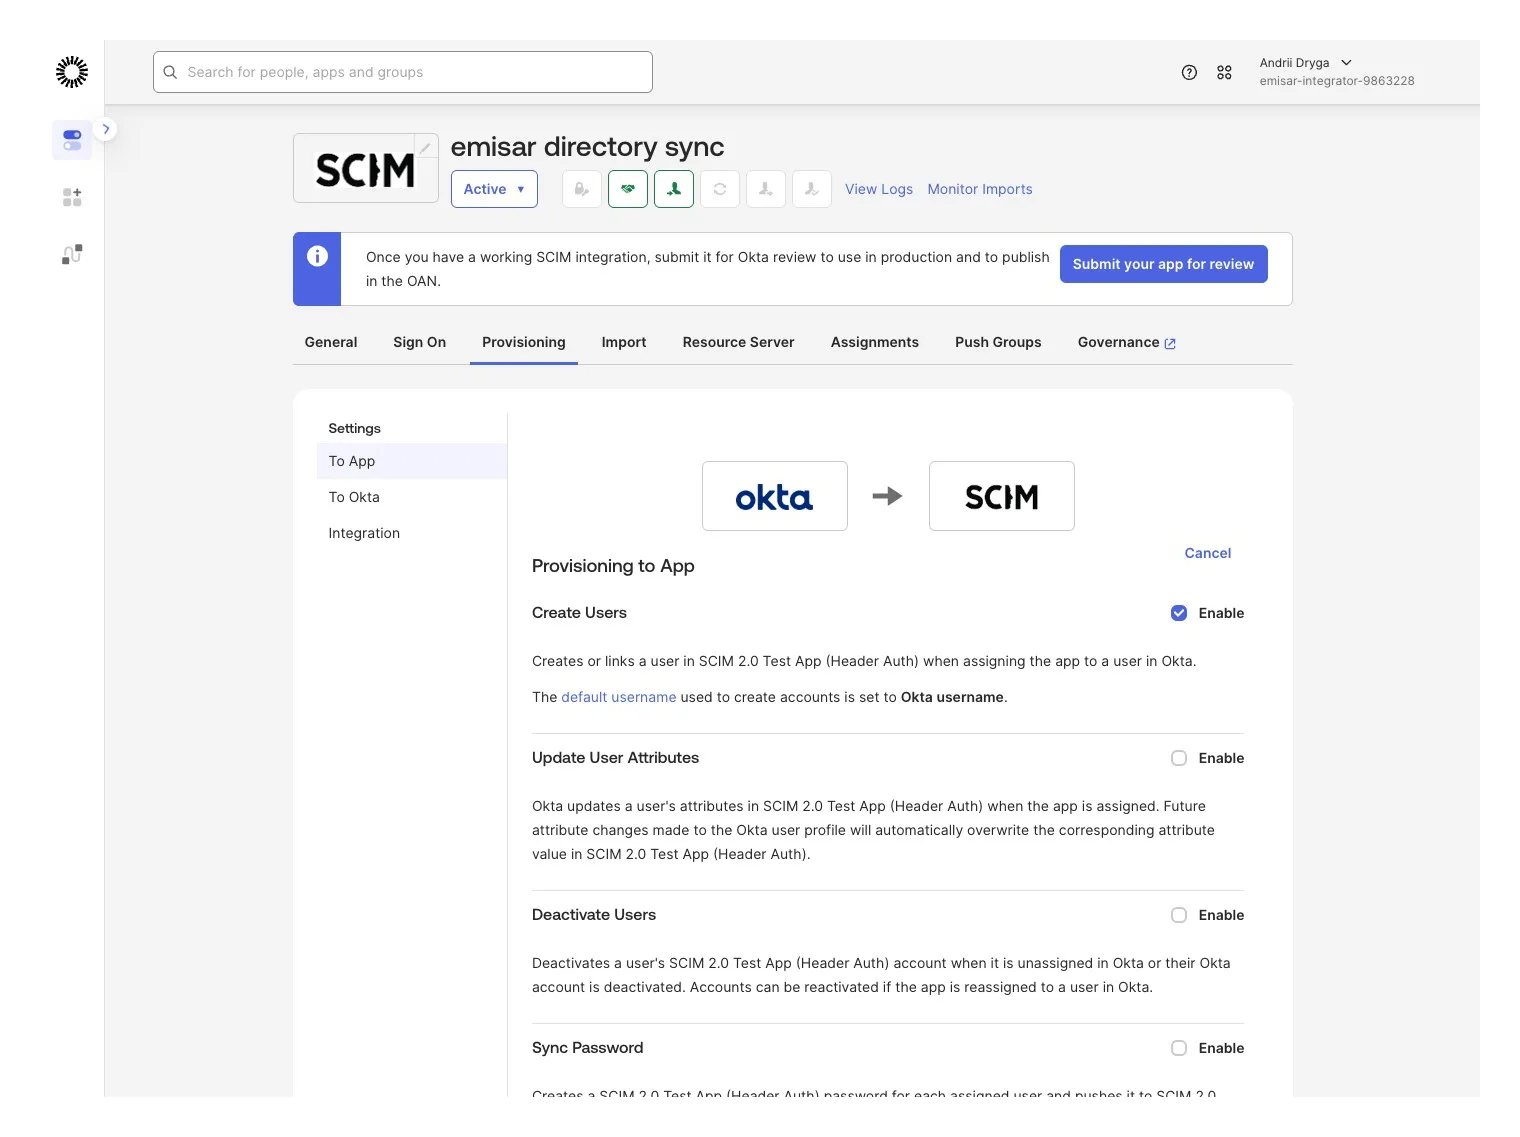
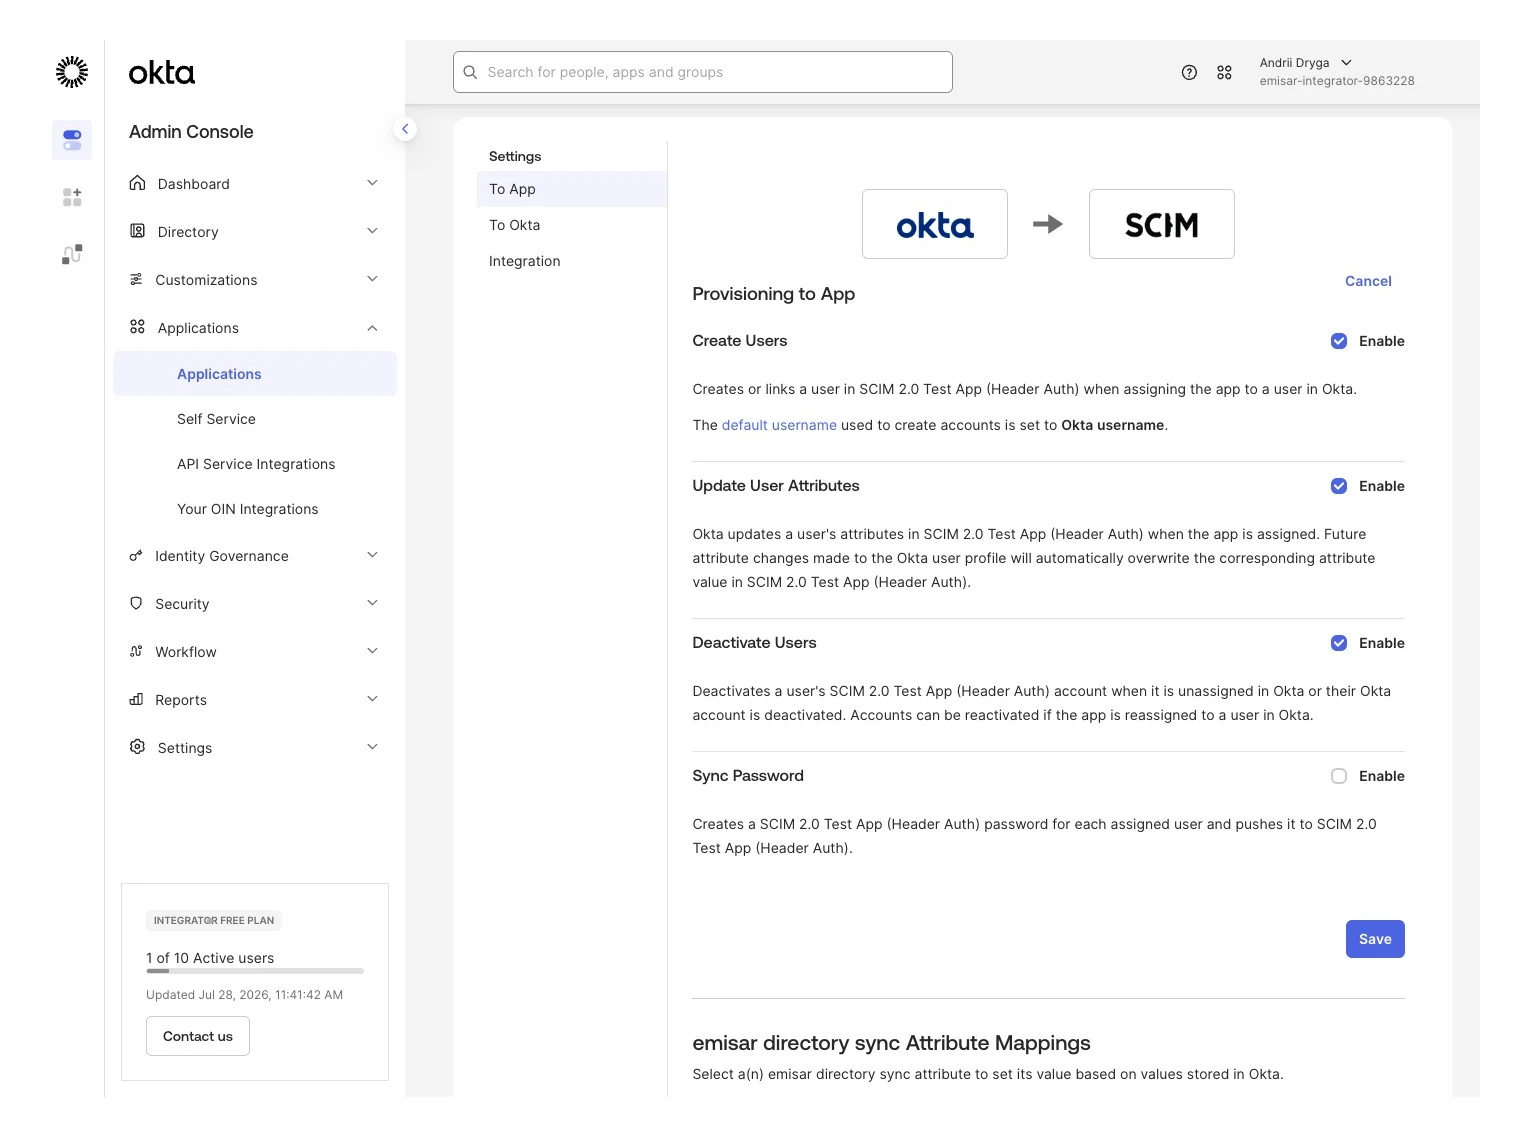
Recapture Okta's lifecycle screen with all three operations actually enabled
The shipped frame showed Create Users ticked and the other two not, under prose
telling you to enable all three. It now shows all three on, Sync Password off,
matching the step exactly.

Getting there found the real bug, and it was mine. The driver de-identified the
Base URL for the screenshot BEFORE clicking Save, so Okta persisted
"https://emisar.dev/scim/v2" — a host with no SCIM provider behind it —
re-validated against that, and disabled provisioning. To App and To Okta only
exist once the integration saves, so the tab vanished and the run failed two steps
downstream with "could not find To App".

That is why three rounds of longer waits and retries changed nothing: I was
treating a missing tab as a timing problem when a screenshot-hygiene step was
quietly corrupting the save. The frame even showed it — "verified successfully!"
above a Base URL reading emisar.dev. The real URL is restored before Save now, and
de-identification stays where it belongs, on the capture.

tickInSection's rewrite proved itself in the same run: "enable Create Users: true
/ Update User Attributes: true / Deactivate Users: true / all three verified ON".
The old climb-from-the-checkbox caught only the first.

Verified live against the Okta org through a tunnel; alt text updated to describe
what the frame now shows.

Coop-Task: 2026-07-28-split-sso-scim-docs-into-per-provider-guides-and

diff --git a/tools/cmd/okta-capture/main.go b/tools/cmd/okta-capture/main.go
@@ -556,10 +556,21 @@ func provisioningFlow(
 		return err
 	}
 
+	// The de-identification above rewrote the Base URL field for the screenshot.
+	// Saving now would persist THAT hostname, Okta would re-validate against a host
+	// with no SCIM provider behind it, and provisioning would silently stay off —
+	// which is exactly how a passing "verified successfully!" ended with
+	// "Provisioning is not enabled". Put the real tunnel back before saving.
+	if err := typeRealKeys(ctx, "scim_base_url", base); err != nil {
+		return err
+	}
+	if err := settle(1); err != nil {
+		return err
+	}
 	if err := clickSelector(ctx, "#userMgmtSettings\\.button\\.submit"); err != nil {
 		return err
 	}
-	fmt.Println("  clicked Save")
+	fmt.Println("  clicked Save (with the real base URL restored)")
 	if err := settle(8); err != nil {
 		return err
 	}
